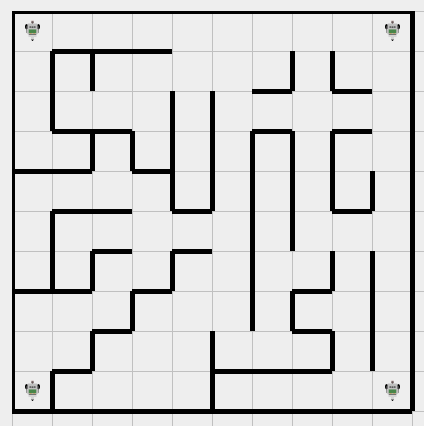
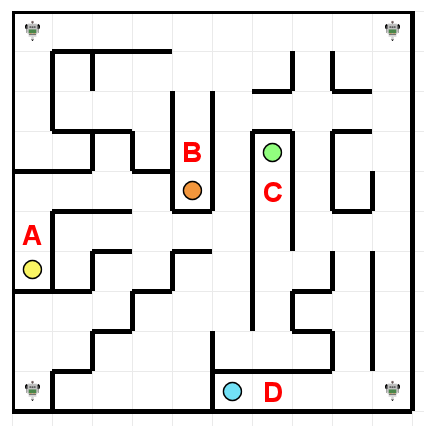
verslag prentje doolhof voorwerp zoeken

diff --git a/SilverSurferVerslag/Verslag demo 5/Verslag demo 5.tex b/SilverSurferVerslag/Verslag demo 5/Verslag demo 5.tex
@@ -162,15 +162,15 @@ Bij de start van het tweede semester werd besloten een extra optimalisatie (F) t
 \begin{table}[!hb]
 \begin{center}
     \begin{tabular}{ c | c || c | c }
-    \multicolumn{4}{c}{\textbf{Start op positie 00}} \\ 
+    \multicolumn{4}{c}{\textbf{Start linksboven}} \\ 
    \multicolumn{2}{c||}{Met deadend prioriteit} & \multicolumn{2}{|c}{Zonder deadend prioriteit}\\
-     positie (xy) & afgelegde weg (cm) & positie (xy) &  afgelegde weg (cm)\\ \hline\hline
-    {\color{green}05} & {\color{green}720} & {\color{green}43} & {\color{green}880} \\ \hline
-    {\color{green}43} & {\color{green}1520} & {\color{green}69} & {\color{green}2960} \\ \hline
-    {\color{green}69} & {\color{green}4320} & {\color{green}64} & {\color{green}4520} \\ \hline
-    {\color{red}64} & {\color{red}6120} & {\color{red}05} & {\color{red}5920}\\
+     gevonden locatie & afgelegde weg (cm) & gevonden locatie &  afgelegde weg (cm)\\ \hline\hline
+    A & {\color{green}720} & B & {\color{green}880} \\ \hline
+    B & {\color{green}1520} & D & {\color{green}2960} \\ \hline
+    D & {\color{green}4320} & C & {\color{green}4520} \\ \hline
+    C & {\color{red}6120} & A & {\color{red}5920}\\
     \end{tabular}
-    \caption{Testresultaten optimalisatie F, startpositie 00}
+    \caption{Testresultaten optimalisatie F, start linksboven}
     \label{tab:resultVerken}
 \end{center}
 \end{table}
@@ -178,15 +178,15 @@ Bij de start van het tweede semester werd besloten een extra optimalisatie (F) t
 \begin{table}[!hb]
 \begin{center}
     \begin{tabular}{c | c || c | c }
-    \multicolumn{4}{c}{\textbf{Start op positie 99}} \\
+    \multicolumn{4}{c}{\textbf{Start rechtsonder}} \\
    \multicolumn{2}{c||}{Met deadend prioriteit} & \multicolumn{2}{|c}{Zonder deadend prioriteit}\\
-     positie (xy) &  afgelegde weg (cm) & positie (xy) &  afgelegde weg (cm)\\ \hline\hline
-    69 & 120 & 69 & 120 \\ \hline
-    {\color{red}05} & {\color{red}2920} & {\color{red}05} & {\color{red}2600} \\ \hline
-    {\color{red}43} & {\color{red}3720} & {\color{red}43} & {\color{red}3240} \\ \hline
-    {\color{red}64} & {\color{red}6240} & {\color{red}64} & {\color{red}6000}\\
+     gevonden locatie &  afgelegde weg (cm) & gevonden locatie &  afgelegde weg (cm)\\ \hline\hline
+    D & 120 & D & 120 \\ \hline
+    A & {\color{red}2920} & A & {\color{red}2600} \\ \hline
+    B & {\color{red}3720} & B & {\color{red}3240} \\ \hline
+    C & {\color{red}6240} & C & {\color{red}6000}\\
     \end{tabular}
-    \caption{Testresultaten optimalisatie F, startpositie 99}
+    \caption{Testresultaten optimalisatie F, start rechtsonder}
     \label{tab:resultVerken}
 \end{center}
 \end{table}
